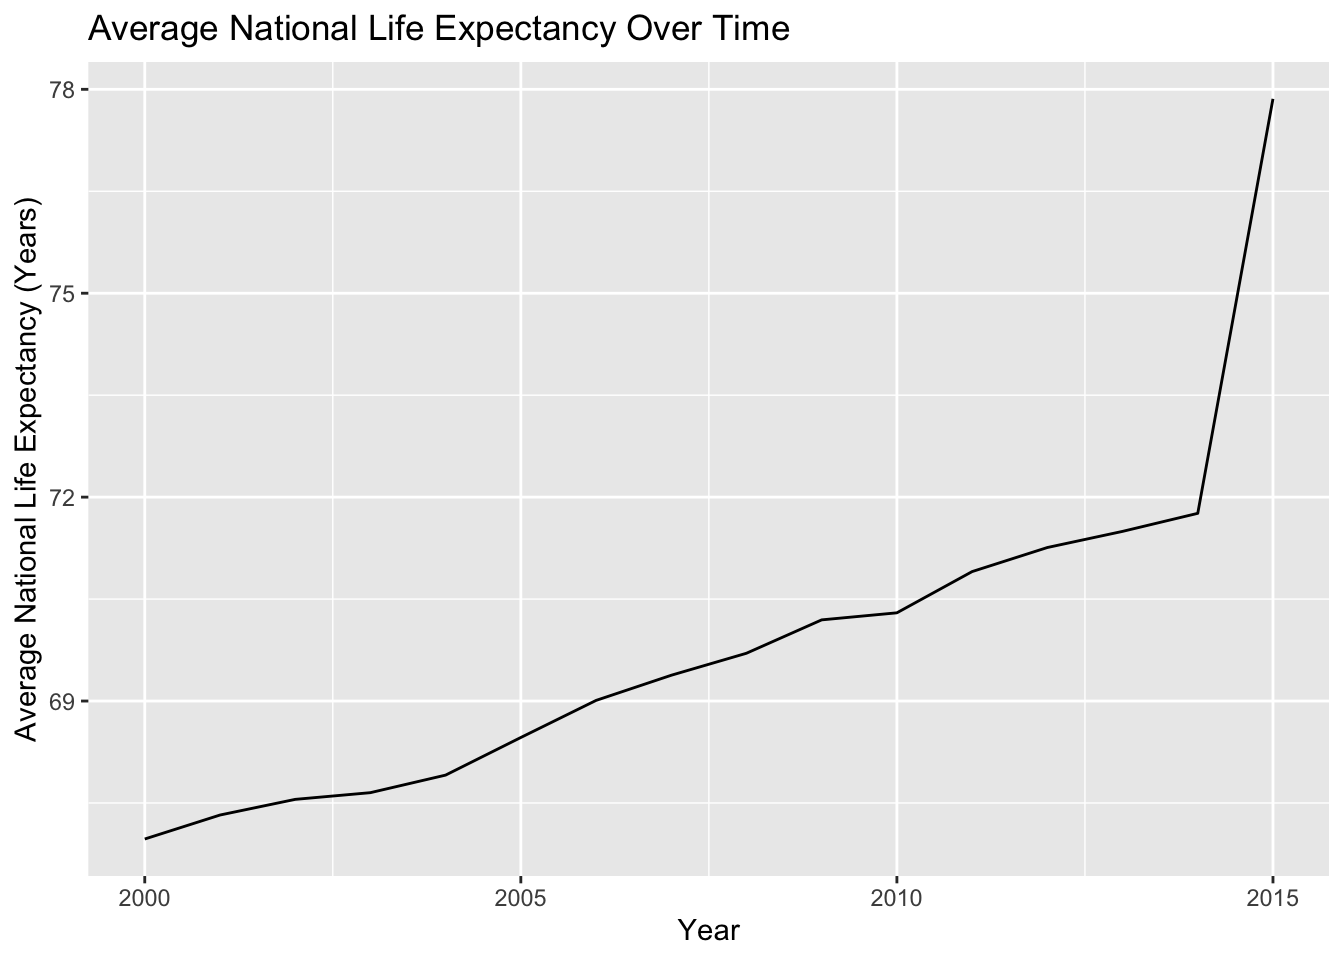
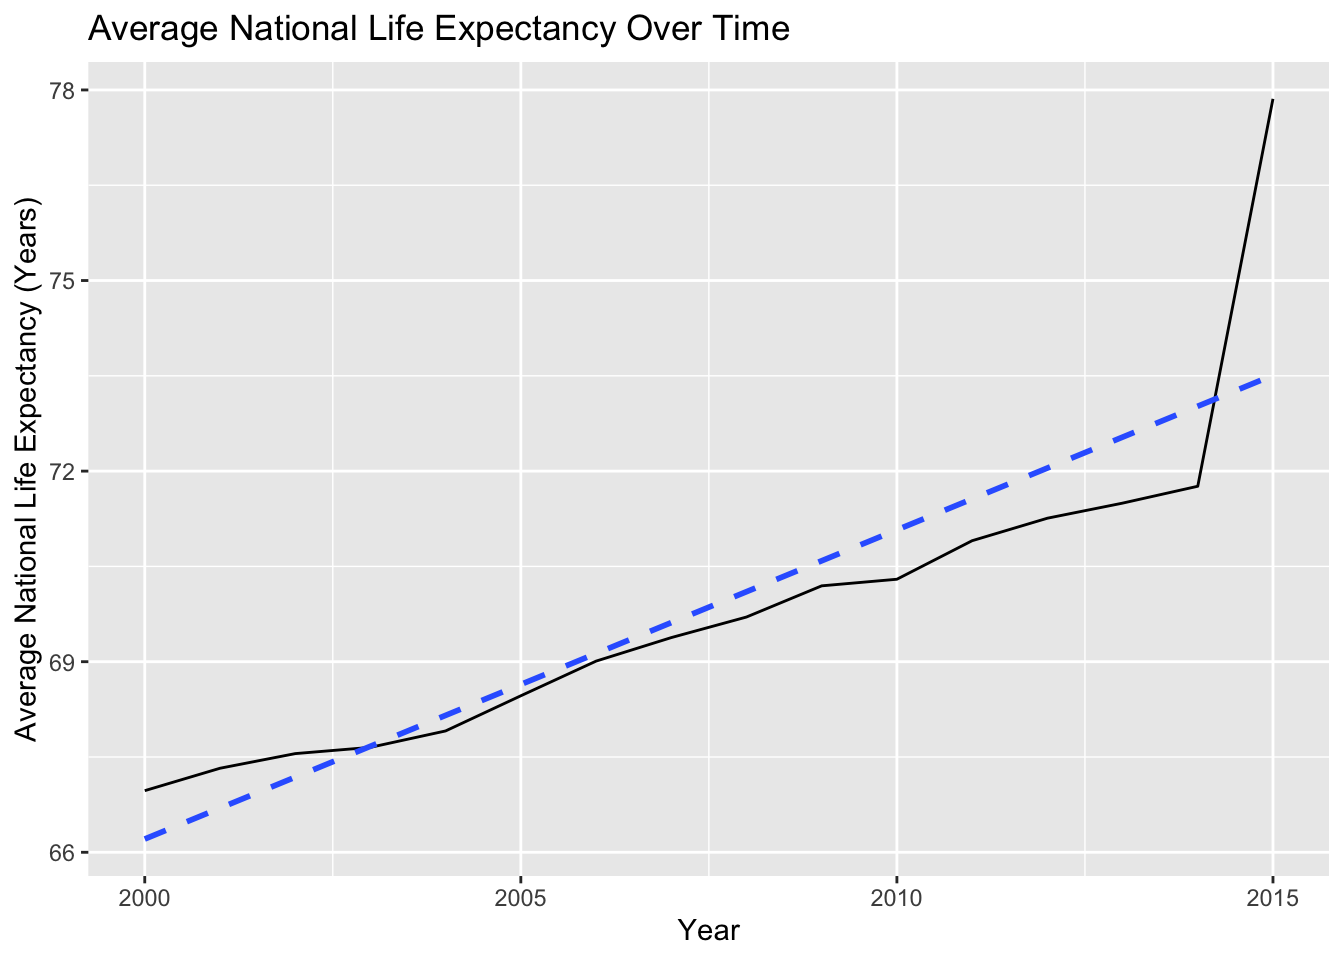
Added regression lines over time

diff --git a/evan-analysis.html b/evan-analysis.html
@@ -67,11 +67,13 @@
 <h2>Temporal Analysis</h2>
 <pre class="r"><code>year_averages &lt;- aggregate(Life.expectancy ~ Year, data = data, FUN = mean)
 
-ggplot(data = year_averages) +
-  geom_line(mapping = aes(x = Year, y = Life.expectancy)) +
+ggplot(data = year_averages, mapping = aes(x = Year, y = Life.expectancy)) +
+  geom_line() +
   labs(title = &quot;Average National Life Expectancy Over Time&quot;,
        x = &quot;Year&quot;,
-       y = &quot;Average National Life Expectancy (Years)&quot;)</code></pre>
+       y = &quot;Average National Life Expectancy (Years)&quot;) +
+  stat_smooth(method = &quot;lm&quot;, se = FALSE, linetype = &quot;dashed&quot;)</code></pre>
+<pre><code>## `geom_smooth()` using formula &#39;y ~ x&#39;</code></pre>
 <p><img src="evan-analysis_files/figure-html/over_time-1.png" width="672" /></p>
 <pre class="r"><code># savefig(&quot;life_expectancy__year.png&quot;)
 
@@ -96,11 +98,14 @@ summary(lm(Life.expectancy ~ Year, data = year_averages))</code></pre>
 ## F-statistic: 45.36 on 1 and 14 DF,  p-value: 9.551e-06</code></pre>
 <pre class="r"><code>status_averages &lt;- aggregate(Life.expectancy ~ Year + Status, data = data, FUN = mean)
 
-ggplot(data = status_averages) +
-  geom_line(mapping = aes(x = Year, y = Life.expectancy, color = Status)) +
+ggplot(data = status_averages, mapping = aes(x = Year, y = Life.expectancy)) +
+  geom_line(mapping = aes(color = Status)) +
   labs(title = &quot;Average National Life Expectancy Over Time, By Development Status&quot;,
        x = &quot;Year&quot;,
-       y = &quot;Average National Life Expectancy (Years)&quot;)</code></pre>
+       y = &quot;Average National Life Expectancy (Years)&quot;) +
+  stat_smooth(mapping = aes(group = Status), method = &quot;lm&quot;, se = FALSE,
+              color = &quot;black&quot;, size = 0.5, linetype = &quot;dashed&quot;)</code></pre>
+<pre><code>## `geom_smooth()` using formula &#39;y ~ x&#39;</code></pre>
 <p><img src="evan-analysis_files/figure-html/status_time-1.png" width="672" /></p>
 <pre class="r"><code>data$Status.proxy &lt;- as.integer(factor(data$Status, levels = c(&quot;Developing&quot;,
                                                                &quot;Developed&quot;),
